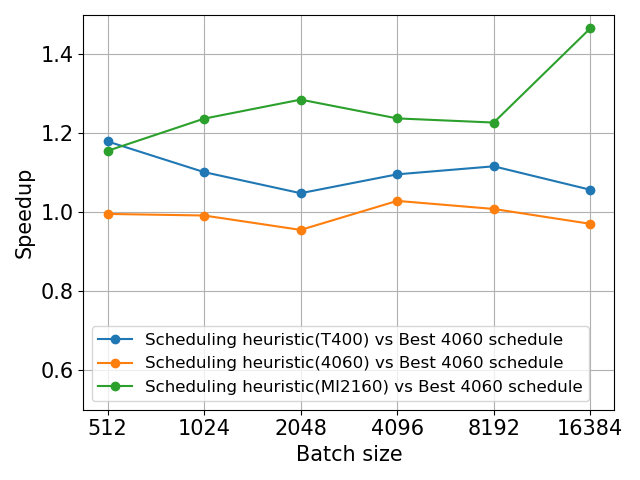
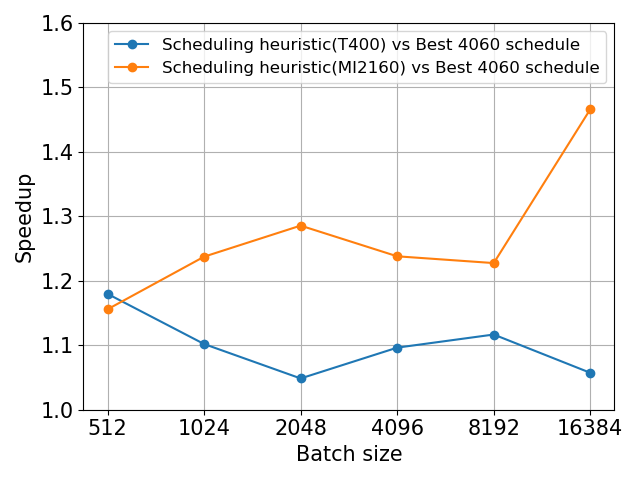
Add new graphs

diff --git a/docs/SOSP 2024/results.tex b/docs/SOSP 2024/results.tex
@@ -2,7 +2,7 @@
 \label{sec:results}
 
 We evaluate \Treebeard{} on four different target processors, an NVIDIA RTX 4060 GPU (8GB RAM, CUDA 11.5),
-an NVIDIA T400 GPU (2GB RAM, CUDA 11.5), an AMD MI210 GPU (64GB RAM, ROCm 4.5?) and an 
+an NVIDIA T400 GPU (2GB RAM, CUDA 11.5), an AMD MI210 GPU (64GB RAM, ROCm 4.5\TODO{Check the version}) and an 
 Intel Core i9-11900K CPU (16 virtual cores, 128 GB RAM). We compare \Treebeard{} with 
 four other systems, NVIDIA RAPIDs v23.10, Tahoe, XGBoost v1.7.6 and \TreebeardOLD{} CPU. 
 We measure both kernel time and total time (including data transfer to the GPU and results back) 
@@ -15,18 +15,24 @@ Learning Benchmark suite~\cite{MLBenchmarks}. These models were also
 used to evaluate \TreebeardOLD{}\cite{Treebeard}.
 To enable more exhaustive evaluation we generated 700 random models with
 varying number of trees (100---1000) and features (powers of two in the range 8---1024). 
-Each tree has leaves at depths 2 to a maximum depth of 6, 7 or 8. 
+Each tree has leaves at depths 2 to a maximum depth of 6, 7 or 8.
+For \Treebeard{}, we use schedules found using the schedule exploration
+heuristic (Section \ref{sec:exploring}) unless otherwise specified.
 
 \subsection{Performance comparisons on NVIDIA GPUs}
 \subsubsection*{Real-world models}
 We performed a detailed performance comparison between \Treebeard{}, Tahoe, RAPIDS and XGBoost on the real-world benchmarks.
 Figure~\ref{Fig:TBvsRAPIDsTahoe_4060_Speedup} shows the geomean speedup of \Treebeard{} at different batch sizes on RTX 4060. 
 We do not show results for XGBoost since the speedups are an order of magnitude higher and too large to fit on the same graph.  
-  The plot has lines for kernel time and total time speedup over RAPIDS and kernel time speedup over Tahoe. As can been seen \Treebeard{} is uniformly faster than Tahoe{\footnote{Tahoe does not support multiclass models and to enable comparison wet ran the multiclass models (\op{covtype} and \op{letters}) as regression models. We also noticed that some variants of Tahoe produce wrong results (as reported by its own tests) for 
-  \op{letters} and \op{year}. In these cases, we pick the time of the fastest variant that gives the correct results.
-}} by $2-3\times$ at all batch sizes. 
-Compared to RAPIDS, \Treebeard{} is about $4\times$ faster at batch size 512. The relative performance of RAPIDs improves with batch size, but \Treebeard{} is still faster by $1.5-2\times$ evan at very high ($16K$) batch sizes. 
-The plot also shows that the speedups are significant even when data needs to be transferred to the GPU and results need to be transferred back. They are lower than kernel time speedup as both systems have a constant additional transfer overhead.
+The plot has lines for kernel time and total time speedup over RAPIDS and kernel time speedup over Tahoe. As can been seen 
+\Treebeard{} is uniformly faster than Tahoe{\footnote{Tahoe does not support multiclass models. To enable comparison, we ran 
+the multiclass models (\op{covtype} and \op{letters}) as regression models only with Tahoe. We also noticed that some variants
+of Tahoe produce wrong results (as reported by its own tests) for \op{letters} and \op{year}. In these cases, we pick the 
+time of the fastest variant that gives the correct results.}} by $2-3\times$ at all batch sizes. 
+Compared to RAPIDS, \Treebeard{} is about $4\times$ faster at batch size 512. The relative performance of RAPIDs improves 
+with batch size, but \Treebeard{} is still faster by $1.5-2\times$ even at very high ($16K$) batch sizes. 
+The plot also shows that the speedups are significant even when data needs to be transferred to the GPU and results need to
+be transferred back. They are lower than kernel time speedup as both systems have a constant additional transfer overhead.
 
 Figure~\ref{Fig:KernelTimeIndividualBenchmarks4060} shows per benchmark results at two different batch sizes. \Treebeard{} is able to find better schedules than both RAPIDS and Tahoe on each of the benchmarks. It consistently outperforms both systems, achieving speedups in the range $1.1-12\times$, with about half the benchmarks achieving a speedup of $2\times$ or more  over both baselines at batch size 8192.
 \begin{figure}[htb]
@@ -95,6 +101,14 @@ and Tahoe consistently. We observe similar trends to those on the RTX 4060.
   \centering
   \includegraphics[width=0.75\linewidth]{figures/geomean_speedup_4060_kernel_time_total_time.png}
   \caption{\Treebeard{} vs RAPIDs and Tahoe kernel time and total time speedup on NVIDIA RTX 4060}
+  \label{Fig:TBvsRAPIDsTahoe_4060_Speedup}
+\end{figure}
+
+\begin{figure}[htb]
+  \centering
+  \includegraphics[width=0.75\linewidth]{figures/geomean_speedup_4060_bar_graph.png}
+  \caption{\Treebeard{} vs RAPIDs and Tahoe kernel time and total time speedup on NVIDIA RTX 4060 for individual benchmarks (geomean over all batch sizes).
+  \TODO{Add bar for total time. Add whiskers to each bar to show range of speedups.}}
   \label{Fig:TBvsRAPIDsTahoe_4060_Speedup}
 \end{figure}
 
@@ -182,16 +196,18 @@ These results show that our heuristic is able to quickly find schedules that are
 
 \begin{figure}[htb]
   \centering
-  \includegraphics[width=0.75\linewidth]{figures/geomean_speedup_T400_4060_vs_T400_vs_MI2160.png}
-  \caption{Geomean speedup of schedule found by exploration heuristic vs best 4060 schedule on NVIDIA RTX 4060, NVIDIA T400 and AMD MI2160 across batch sizes}
-  \label{Fig:AutotuningSpeedupvs4060Sched}
+  \includegraphics[width=0.75\linewidth]{figures/speedup_vs_norm_time_line_graph_4060.png}
+  \caption{Speedup of schedule found by the heuristic vs best schedule found through exhaustive search on NVIDIA RTX 4060 and 
+  normalized schedule exploration heuristic exploration time speedup w.r.t full schedule exploration}
+  \label{Fig:HeuristicVsFullExplore_Speedup}
 \end{figure}
 
 \begin{figure}[htb]
   \centering
-  \includegraphics[width=0.75\linewidth]{figures/geomean_speedup_4060_full_exp_vs_at.png}
-  \caption{Schedule exploration heuristic exploration time speedup vs full schedule exploration}
-  \label{Fig:HeuristicVsFullExplore_Speedup}
+  \includegraphics[width=0.75\linewidth]{figures/geomean_speedup_T400_4060_vs_T400_vs_MI2160.png}
+  \caption{Geomean speedup of schedule found by exploration heuristic on NVIDIA T400 and AMD MI2160 vs 
+  schedule found by the heuristic on NVIDIA RTX 4060 across batch sizes\TODO{Change the plot labels to say vs 4060 heuristic schedule}}
+  \label{Fig:AutotuningSpeedupvs4060Sched}
 \end{figure}
 
 % \begin{itemize}
